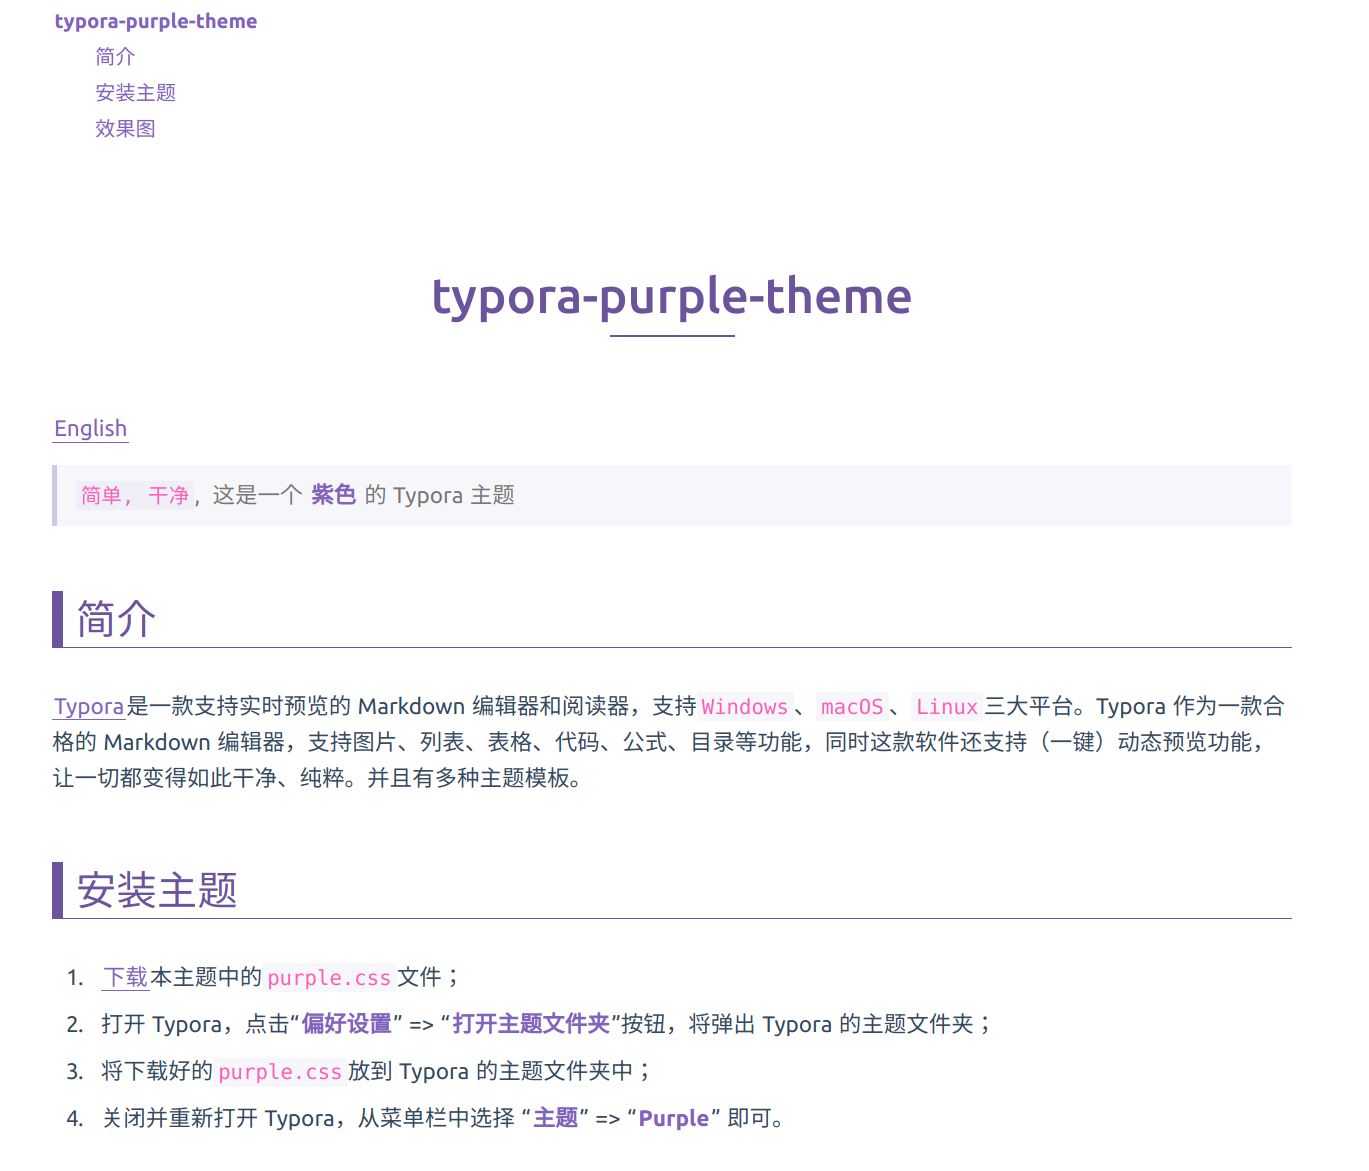
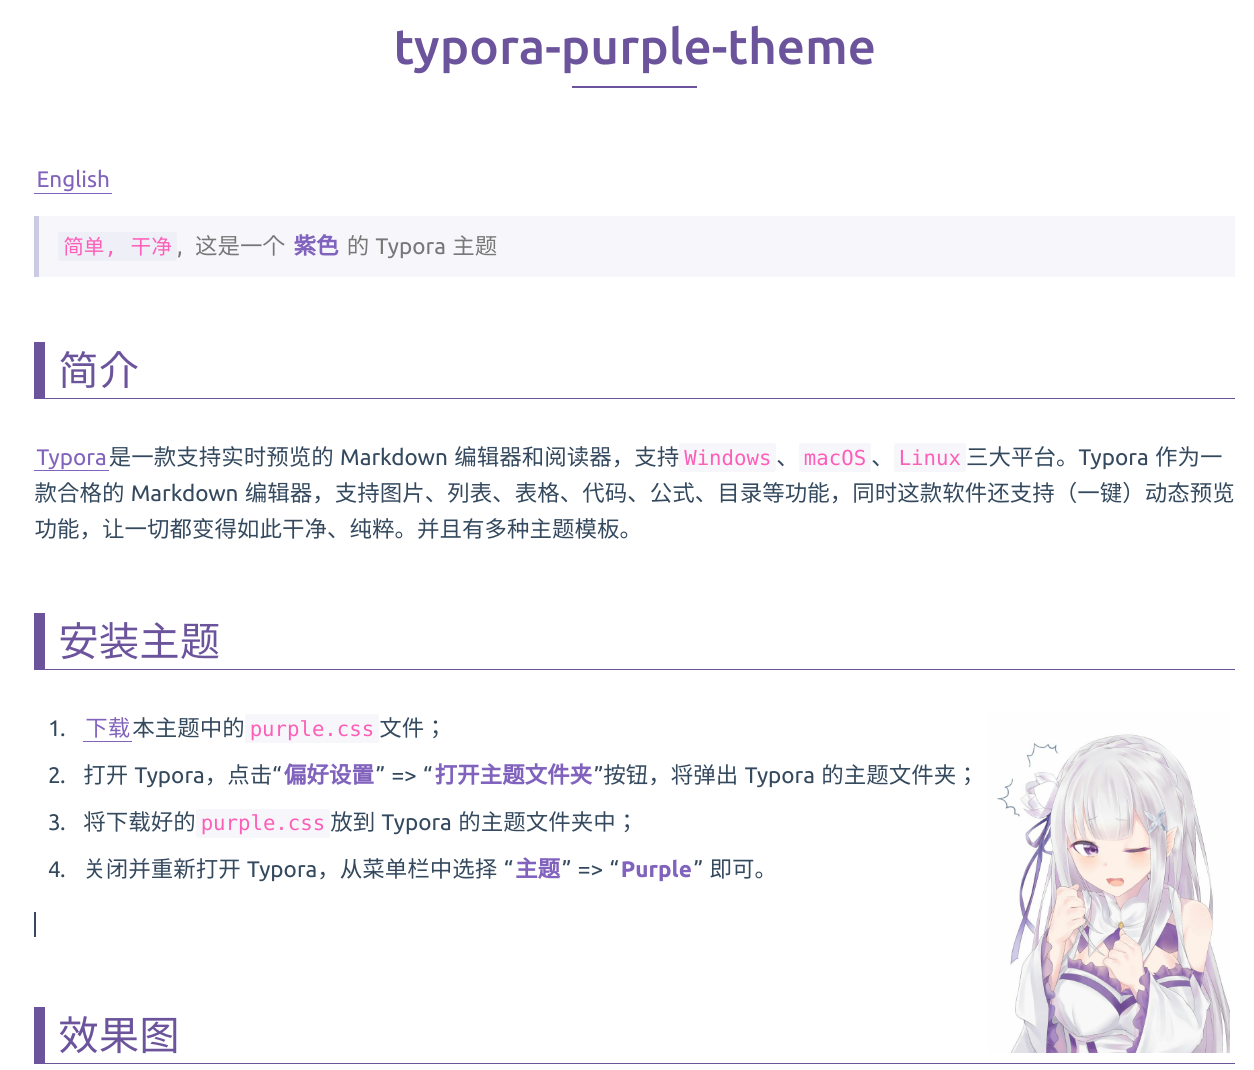
Descriptions

diff --git a/README_CN.md b/README_CN.md
@@ -4,7 +4,7 @@
 
 [English](README.md)
 
-> `简单, 干净`,  这是一个 **紫色** 的 Typora 主题
+> `简单, 干净`,  一个**紫色**的 Typora 主题
 
 ## 简介
 
@@ -12,10 +12,12 @@
 
 ## 安装主题
 
-1. [下载](https://github.com/hliu202/typora-purple-theme)本主题中的`purple.css`文件；
+1. [下载](https://github.com/hliu202/typora-purple-theme)本主题中的`purple.css`文件；<img src="assets/e.jpg" width="200" align=right hspace="5" vspace="5"/>
 2. 打开 Typora，点击“**偏好设置**” => “**打开主题文件夹**”按钮，将弹出 Typora 的主题文件夹；
 3. 将下载好的`purple.css`放到 Typora 的主题文件夹中；
 4. 关闭并重新打开 Typora，从菜单栏中选择 “**主题**” => “**Purple**” 即可。
+
+
 
 ## 效果图
 

diff --git a/README.md b/README.md
@@ -12,10 +12,12 @@
 
 ## Install
 
-1. [Download](https://github.com/hliu202/typora-purple-theme) this theme from Github, then you can get the `purple.css`.
+1. [Download](https://github.com/hliu202/typora-purple-theme) this theme from Github, then you can get the `purple.css`.<img src="assets/e.jpg" width="200" align=right hspace="5" vspace="5"/>
 2. Open typora. Click "**Open Theme Folder**" button from **Preference Panel** → **Apperance** section.
 3. Put `purple.css` into the opened folder, make sure your css files are directly under that directory.
 4. Close and reopen Typora and select **Theme** → **Purple** from the menu bar.
+
+
 
 ## Screenshots
 
